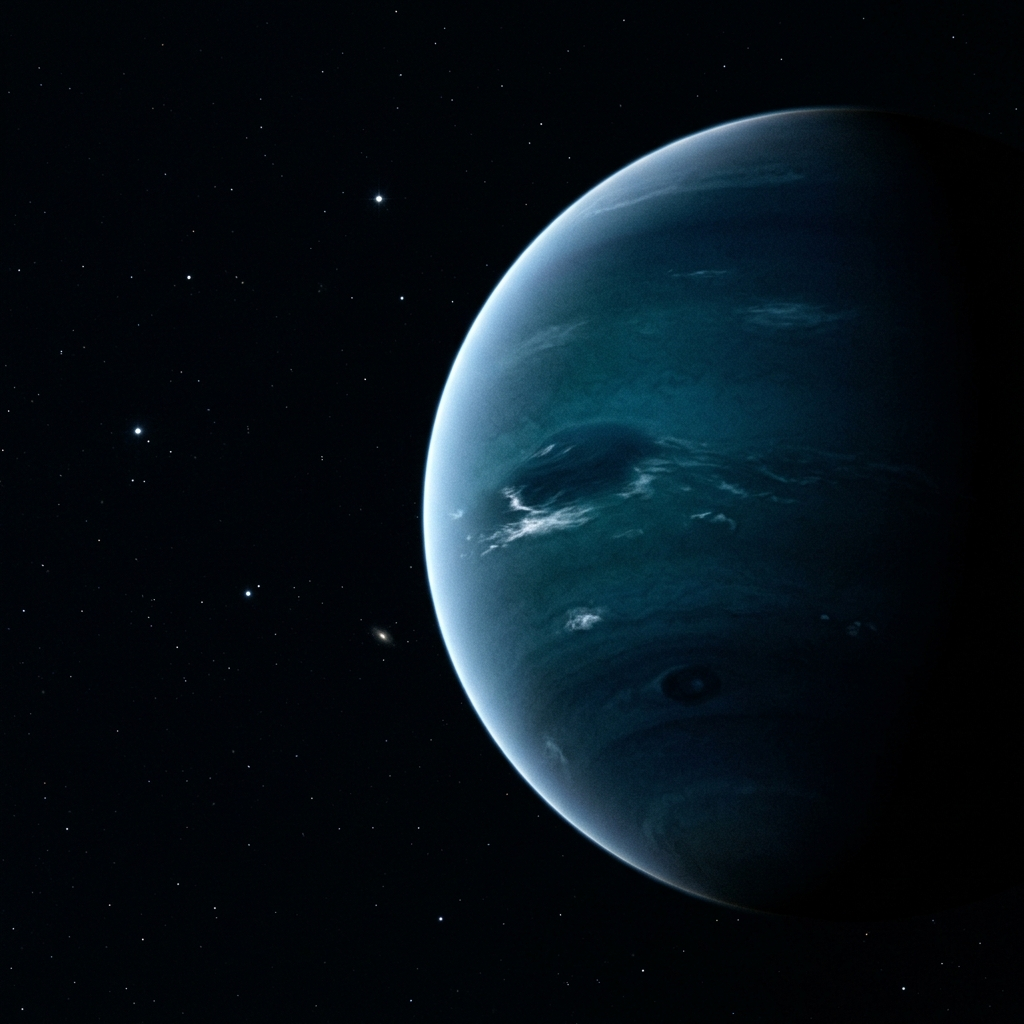
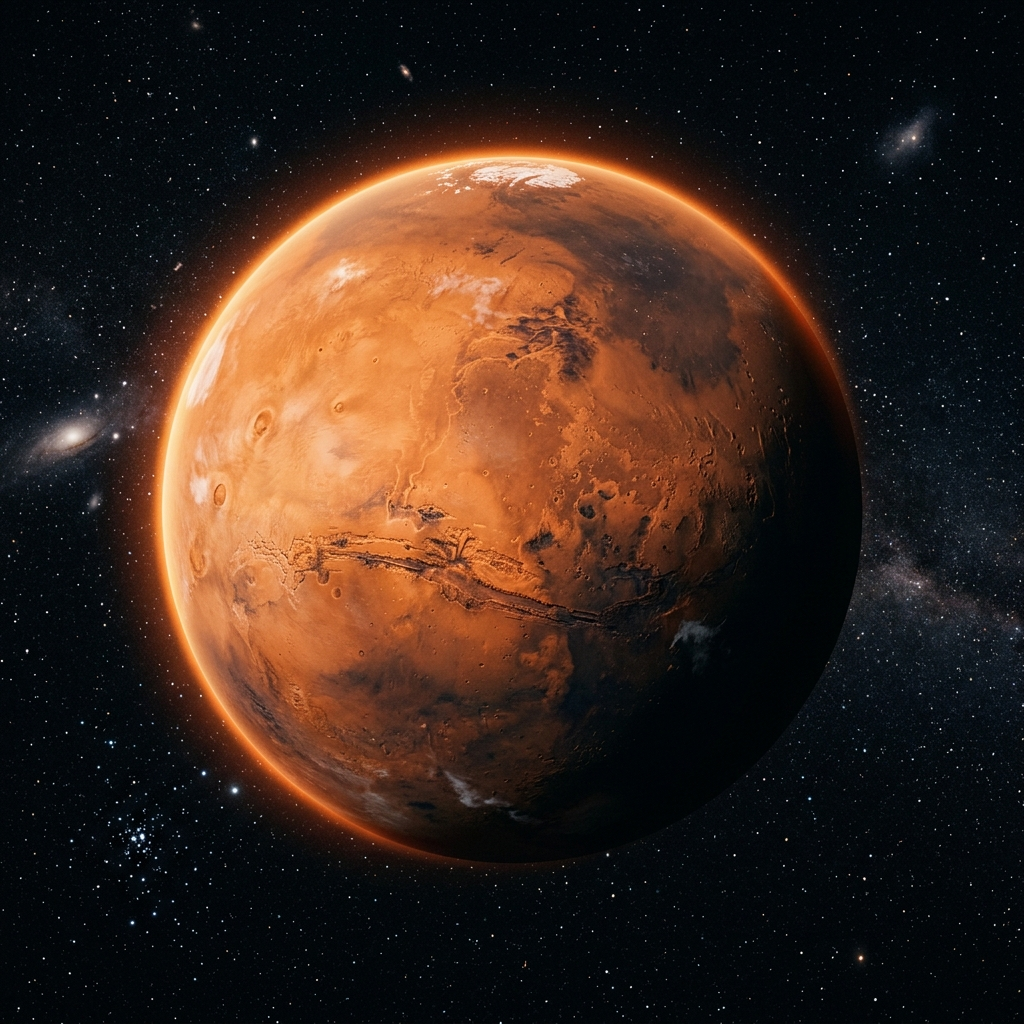
Changed according to Mishra's wishes

diff --git a/client/src/styles/App.css b/client/src/styles/App.css
@@ -7,8 +7,8 @@
   --bg-card:      #181818;
   --text-primary: #ffffff;
   --text-muted:   #B5B5B5;
-  --accent:       #0059FF;
-  --accent-2:     #00D9FF;
+  --accent:       #E76F00;
+  --accent-2:     #FF8A1D;
   --border:       rgba(255, 255, 255, 0.08);
   --radius-sm:    4px;
   --radius-md:    6px;
@@ -27,15 +27,27 @@
   min-height: 100vh;
 }
 
-/* ── Global fixed background (Neptune) — applies to all pages ── */
+/* ── Global fixed background (Mars) — applies to all pages ── */
 .site-bg {
   position: fixed;
   inset: 0;
   z-index: -1;
+  background-color: #000000;
+  overflow: hidden;
+}
+
+.site-bg::before {
+  content: '';
+  position: absolute;
+  top: 0;
+  bottom: 0;
+  left: 0;
+  right: -50vw;
   background-image: url('/site-bg.png');
   background-size: cover;
-  background-position: center right;
+  background-position: center;
   background-repeat: no-repeat;
+  opacity: 0.95;
 }
 
 /* Dark overlay over the image — keeps all text readable */
@@ -78,17 +90,17 @@ p {
 }
 
 ::-webkit-scrollbar-thumb {
-  background: rgba(0, 89, 255, 0.4);
+  background: rgba(231, 111, 0, 0.4);
   border-radius: 3px;
 }
 
 ::-webkit-scrollbar-thumb:hover {
-  background: rgba(0, 89, 255, 0.7);
+  background: rgba(231, 111, 0, 0.7);
 }
 
 /* ── Selection ── */
 ::selection {
-  background-color: rgba(0, 89, 255, 0.3);
+  background-color: rgba(231, 111, 0, 0.3);
   color: #fff;
 }
 
@@ -121,8 +133,12 @@ a:focus-visible {
 }
 
 .btn-primary:hover {
-  background: #0047cc;
+  background: #FF8A1D;
   transform: translateY(-1px);
+}
+
+.btn-primary:active {
+  background: #C65A00;
 }
 
 .btn-secondary {

diff --git a/client/src/styles/ProjectDetail.css b/client/src/styles/ProjectDetail.css
@@ -45,10 +45,10 @@
   height: 52px;
   min-width: 52px;
   padding: 12px;
-  background: rgba(0, 89, 255, 0.08);
-  border: 1px solid rgba(0, 89, 255, 0.2);
+  background: rgba(231, 111, 0, 0.08);
+  border: 1px solid rgba(231, 111, 0, 0.2);
   border-radius: 4px;
-  color: #0059FF;
+  color: #E76F00;
   display: flex;
   align-items: center;
   justify-content: center;
@@ -58,7 +58,7 @@
 .project-detail-icon svg {
   width: 22px;
   height: 22px;
-  stroke: #0059FF;
+  stroke: #E76F00;
   fill: none;
 }
 
@@ -86,15 +86,15 @@
 }
 
 .status-in-progress {
-  background: rgba(0, 89, 255, 0.12);
-  color: #6699FF;
-  border: 1px solid rgba(0, 89, 255, 0.25);
+  background: rgba(231, 111, 0, 0.12);
+  color: #FF8A1D;
+  border: 1px solid rgba(231, 111, 0, 0.25);
 }
 
 .status-design-phase {
-  background: rgba(0, 217, 255, 0.08);
-  color: #00D9FF;
-  border: 1px solid rgba(0, 217, 255, 0.2);
+  background: rgba(255, 138, 29, 0.08);
+  color: #FF8A1D;
+  border: 1px solid rgba(255, 138, 29, 0.2);
 }
 
 .status-operational {
@@ -157,7 +157,7 @@
   font-family: 'Inter', sans-serif;
   font-size: 0.7rem;
   font-weight: 600;
-  color: #0059FF;
+  color: #E76F00;
   text-transform: uppercase;
   letter-spacing: 0.14em;
   margin: 0 0 16px;
@@ -196,7 +196,7 @@
   width: 5px;
   height: 5px;
   border-radius: 50%;
-  background: #0059FF;
+  background: #E76F00;
 }
 
 @keyframes detailFadeIn {

diff --git a/client/src/styles/MSsec.css b/client/src/styles/MSsec.css
@@ -44,9 +44,19 @@
 }
 
 .view-toggle-btn.active {
-  background: #0059FF;
+  background: #E76F00;
   color: #fff;
-  border-color: #0059FF;
+  border-color: #E76F00;
+}
+
+.view-toggle-btn.active:hover {
+  background: #FF8A1D;
+  border-color: #FF8A1D;
+}
+
+.view-toggle-btn.active:active {
+  background: #C65A00;
+  border-color: #C65A00;
 }
 
 .view-toggle-btn.inactive {
@@ -57,7 +67,7 @@
 
 .view-toggle-btn.inactive:hover {
   color: #fff;
-  border-color: rgba(0, 89, 255, 0.5);
+  border-color: rgba(231, 111, 0, 0.5);
 }
 
 /* ── Status messages ── */
@@ -122,7 +132,7 @@
   font-family: 'Inter', sans-serif;
   font-size: 0.78rem;
   font-weight: 600;
-  color: #0059FF;
+  color: #E76F00;
   text-transform: uppercase;
   letter-spacing: 0.08em;
   margin: 0 0 8px;
@@ -162,8 +172,8 @@
 
 .mentorCard_action:hover {
   color: #fff;
-  border-color: rgba(0, 89, 255, 0.4);
-  background: rgba(0, 89, 255, 0.06);
+  border-color: rgba(231, 111, 0, 0.4);
+  background: rgba(231, 111, 0, 0.06);
 }
 
 .mentorCard_action-icon {

diff --git a/client/src/styles/Projects.css b/client/src/styles/Projects.css
@@ -28,7 +28,7 @@
   display: block;
   width: 48px;
   height: 2px;
-  background: #0059FF;
+  background: #E76F00;
   margin-top: 16px;
 }
 
@@ -43,25 +43,26 @@
 .projects-grid {
   display: grid;
   grid-template-columns: repeat(2, 1fr);
-  gap: 1px;
+  gap: 24px;
   width: 100%;
   max-width: 900px;
-  background: rgba(255, 255, 255, 0.06);
-  border: 1px solid rgba(255, 255, 255, 0.06);
 }
 
 /* ── Card ── */
 .project-card {
   background-color: var(--bg-card);
+  border: 1px solid rgba(255, 255, 255, 0.08);
+  border-radius: 12px;
   padding: 36px 32px;
   display: flex;
   flex-direction: column;
-  transition: background 0.2s ease, transform 0.2s ease;
+  transition: background 0.2s ease, transform 0.2s ease, border-color 0.2s ease;
 }
 
 .project-card:hover {
   background-color: #202020;
   transform: translateY(-2px);
+  border-color: rgba(231, 111, 0, 0.4);
 }
 
 /* ── Icon ── */
@@ -69,7 +70,7 @@
   width: 36px;
   height: 36px;
   margin-bottom: 24px;
-  color: #0059FF;
+  color: #E76F00;
 }
 
 .project-icon svg {
@@ -108,7 +109,7 @@
   padding: 0;
   background: none;
   border: none;
-  color: #0059FF;
+  color: #E76F00;
   font-family: 'Inter', sans-serif;
   font-size: 0.825rem;
   font-weight: 600;
@@ -119,7 +120,7 @@
 }
 
 .project-card-link:hover {
-  color: #00D9FF;
+  color: #FF8A1D;
 }
 
 /* ── Responsive ── */

diff --git a/client/src/styles/Subsystems.css b/client/src/styles/Subsystems.css
@@ -29,7 +29,7 @@
   display: block;
   width: 48px;
   height: 2px;
-  background: #0059FF;
+  background: #E76F00;
   margin-top: 16px;
 }
 
@@ -44,25 +44,26 @@
 .subsystems-grid {
   display: grid;
   grid-template-columns: repeat(3, 1fr);
-  gap: 1px;
+  gap: 24px;
   width: 100%;
   max-width: 1100px;
-  background: rgba(255, 255, 255, 0.06);
-  border: 1px solid rgba(255, 255, 255, 0.06);
 }
 
 /* ── Card ── */
 .subsystem-card {
   background-color: var(--bg-card);
+  border: 1px solid rgba(255, 255, 255, 0.08);
+  border-radius: 12px;
   padding: 36px 32px;
   display: flex;
   flex-direction: column;
-  transition: background 0.2s ease, transform 0.2s ease;
+  transition: background 0.2s ease, transform 0.2s ease, border-color 0.2s ease;
 }
 
 .subsystem-card:hover {
   background-color: #202020;
   transform: translateY(-2px);
+  border-color: rgba(231, 111, 0, 0.4);
 }
 
 /* ── Icon ── */
@@ -70,7 +71,7 @@
   width: 36px;
   height: 36px;
   margin-bottom: 24px;
-  color: #0059FF;
+  color: #E76F00;
 }
 
 .subsystem-icon svg {

diff --git a/client/src/styles/SubsystemDetail.css b/client/src/styles/SubsystemDetail.css
@@ -41,10 +41,10 @@
   height: 52px;
   min-width: 52px;
   padding: 12px;
-  background: rgba(0, 89, 255, 0.08);
-  border: 1px solid rgba(0, 89, 255, 0.2);
+  background: rgba(231, 111, 0, 0.08);
+  border: 1px solid rgba(231, 111, 0, 0.2);
   border-radius: 4px;
-  color: #0059FF;
+  color: #E76F00;
   display: flex;
   align-items: center;
   justify-content: center;
@@ -90,7 +90,7 @@
   font-family: 'Inter', sans-serif;
   font-size: 0.7rem;
   font-weight: 600;
-  color: #0059FF;
+  color: #E76F00;
   text-transform: uppercase;
   letter-spacing: 0.14em;
   margin: 0 0 16px;

diff --git a/client/src/styles/Footer.css b/client/src/styles/Footer.css
@@ -58,7 +58,7 @@
 }
 
 .contact-card:hover {
-  border-color: rgba(0, 89, 255, 0.4);
+  border-color: rgba(231, 111, 0, 0.4);
   background: #181818;
   transform: translateY(-2px);
 }
@@ -81,7 +81,7 @@
   justify-content: center;
   width: 40px;
   height: 40px;
-  color: #0059FF;
+  color: #E76F00;
   margin-bottom: 8px;
 }
 
@@ -112,7 +112,7 @@
 }
 
 .contact-card:hover .contact-value {
-  color: #00D9FF;
+  color: #FF8A1D;
 }
 
 /* ── Coming soon badge ── */

diff --git a/client/src/styles/Navbar.css b/client/src/styles/Navbar.css
@@ -36,7 +36,7 @@
 }
 
 .navbar-brand-accent {
-  color: #0059FF;
+  color: #E76F00;
   margin: 0 2px;
 }
 
@@ -71,7 +71,7 @@
   left: 16px;
   right: 16px;
   height: 1px;
-  background: #0059FF;
+  background: #E76F00;
   transform: scaleX(0);
   transform-origin: left center;
   transition: transform 0.25s ease;

diff --git a/client/src/styles/Home.css b/client/src/styles/Home.css
@@ -26,7 +26,7 @@
   font-weight: 600;
   letter-spacing: 0.18em;
   text-transform: uppercase;
-  color: #0059FF;
+  color: #E76F00;
   margin-bottom: 24px;
   opacity: 0;
   animation: fadeInUp 0.6s ease 0.1s forwards;